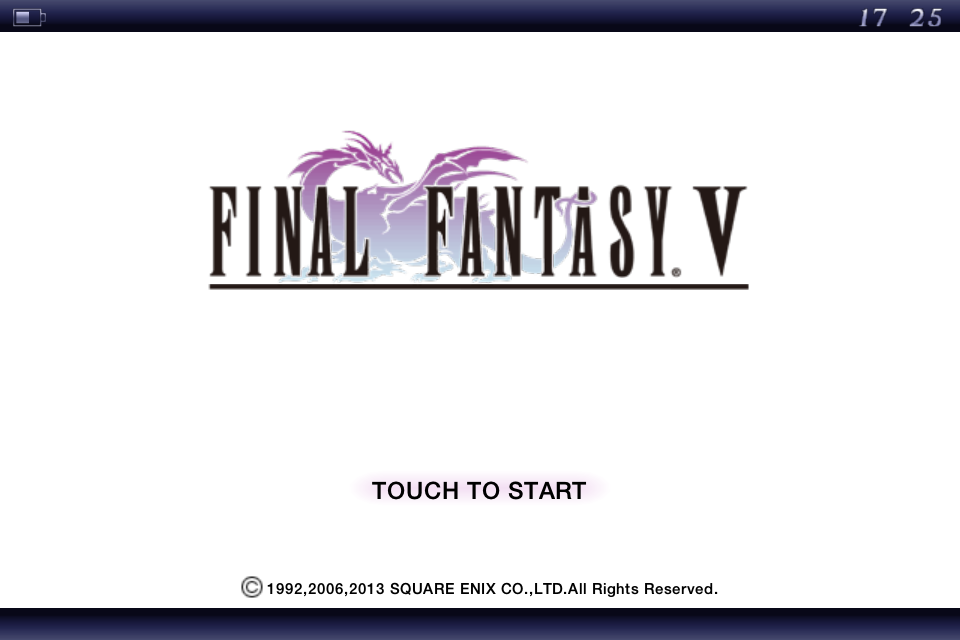
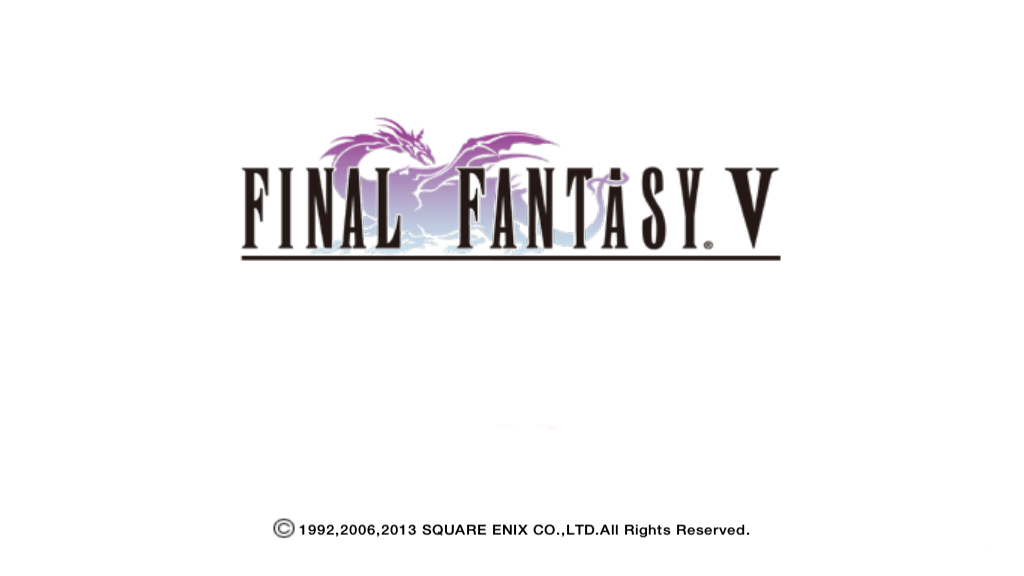
inicio do movimento de camera

diff --git a/core/src/com/nilo/necroslayer/screens/Level_1.java b/core/src/com/nilo/necroslayer/screens/Level_1.java
@@ -8,96 +8,145 @@ import com.badlogic.gdx.ScreenAdapter;
 import com.badlogic.gdx.Input.Keys;
 import com.badlogic.gdx.graphics.GL20;
 import com.badlogic.gdx.graphics.OrthographicCamera;
+import com.badlogic.gdx.graphics.Texture;
+import com.badlogic.gdx.graphics.g2d.Animation;
+import com.badlogic.gdx.graphics.g2d.BitmapFont;
 import com.badlogic.gdx.graphics.g2d.Sprite;
+import com.badlogic.gdx.graphics.g2d.SpriteBatch;
+import com.badlogic.gdx.graphics.g2d.TextureAtlas;
+import com.badlogic.gdx.maps.tiled.TiledMap;
+import com.badlogic.gdx.maps.tiled.TmxMapLoader;
+import com.badlogic.gdx.maps.tiled.renderers.OrthogonalTiledMapRenderer;
+import com.badlogic.gdx.utils.viewport.FitViewport;
+import com.badlogic.gdx.utils.viewport.Viewport;
 import com.nilo.necroslayer.Necroslayer;
 import com.nilo.necroslayer.model.MapaBlocos;
+import com.nilo.necroslayer.model.Player;
 
 public class Level_1 extends ScreenAdapter implements InputProcessor{
 	Necroslayer game;
 	MapaBlocos level_1;
+	PlayerCamera playcam;
+	Viewport viewport;
+	Player player;
+	Sprite spriteanda;
+	public Animation<Sprite> walkAnimation;
+	public OrthogonalTiledMapRenderer tMR;
+	public TiledMap tiledMap;
+	public Texture texture;
+	public Sprite sprite;
+	public TextureAtlas textureAtlas;
+	public SpriteBatch batch;
+	public BitmapFont font;
+	public final int GAME_WORLD_HEIGHT = 576;
+	public final int GAME_WORLD_WIDTH = 1024;
+	public String time, cXY, tXY, pXY;
 	public Level_1(Necroslayer game) {
 		this.game = game;
 	}
 	@Override
 	public void show() {
-		
+		font  = new BitmapFont();
+		batch = new SpriteBatch();
+		textureAtlas = new TextureAtlas(Gdx.files.internal("bartz.atlas"));
+		tiledMap = new TmxMapLoader().load("mapa_4.tmx");
+		tMR = new OrthogonalTiledMapRenderer(tiledMap, 4);
 		Gdx.input.setInputProcessor(this);
-		level_1 = new MapaBlocos(16,9);
-		level_1.gridBlocos[5][3].isWalkable = false;
-		level_1.gridBlocos[5][4].isWalkable = false;
-		level_1.gridBlocos[5][5].isWalkable = false;
-		level_1.gridBlocos[6][3].isWalkable = false;
-		level_1.gridBlocos[6][4].isWalkable = false;
-		level_1.gridBlocos[6][5].isWalkable = false;
-		level_1.gridBlocos[7][3].isWalkable = false;
-		level_1.gridBlocos[7][4].isWalkable = false;
-		level_1.gridBlocos[7][5].isWalkable = false;
+		
+		level_1 = new MapaBlocos(20,16);
+		level_1.gridBlocos[5][10].isWalkable = false;
+		level_1.gridBlocos[5][11].isWalkable = false;
+		level_1.gridBlocos[5][12].isWalkable = false;
+		level_1.gridBlocos[6][10].isWalkable = false;
+		level_1.gridBlocos[6][11].isWalkable = false;
+		level_1.gridBlocos[6][12].isWalkable = false;
+		level_1.gridBlocos[7][10].isWalkable = false;
+		level_1.gridBlocos[7][11].isWalkable = false;
+		level_1.gridBlocos[7][12].isWalkable = false;
+		player = new Player(0, 0);
+		playcam = new PlayerCamera(player, level_1);
+		walkAnimation = player.currentAnimation;
+		playcam.update();
+		viewport = new FitViewport(GAME_WORLD_WIDTH, GAME_WORLD_HEIGHT, playcam);
+		viewport.apply();
 	}
-
+	
+	@Override
+	public void resize (int width, int height) {
+		viewport.update(width, height);
+		playcam.position.set(GAME_WORLD_WIDTH/2, GAME_WORLD_HEIGHT/2, 0);
+	}
 	@Override
 	public void render(float delta) {
 		Gdx.gl.glClearColor(0, 0, 0, 1);
         Gdx.gl.glClear(GL20.GL_COLOR_BUFFER_BIT);
 		Gdx.gl.glClear( GL20.GL_COLOR_BUFFER_BIT | GL20.GL_DEPTH_BUFFER_BIT);
-		this.game.tMR.setView((OrthographicCamera)this.game.viewport.getCamera());
-		this.game.tMR.render();
-		this.game.batch.begin();
-		if(this.game.player.isWalking) {
+		tMR.setView((OrthographicCamera)viewport.getCamera());
+		tMR.render();
+		
+		batch.begin();
+		if(player.isWalking) {
 			this.game.elapsedTime += 0.08;
 		}
-		this.game.player.walk(level_1);
+		player.walk(level_1);
 		if(this.game.elapsedTime > 1) {
 			this.game.elapsedTime = 0;
 		}
-		this.game.camera.update();
-		this.game.batch.setProjectionMatrix(this.game.camera.combined);
-		this.game.spriteanda = (Sprite)this.game.player.currentAnimation.getKeyFrame(this.game.elapsedTime);
-		this.game.batch.draw(this.game.spriteanda, this.game.player.posX, this.game.player.posY, 0, 0, 16, 16,
+		playcam.update();
+		playcam.follow(player, level_1);
+		spriteanda = (Sprite)player.currentAnimation.getKeyFrame(this.game.elapsedTime);
+		batch.draw(spriteanda, player.posX, player.posY, 0, 0, 16, 16,
 		    		4, 4, 0);
-		this.game.time = String.format("%f",this.game.elapsedTime);
-		this.game.cXY = String.format("%f , %f",this.game.player.getTileX(), this.game.player.getTileY());
-		this.game.tXY = String.format("%d , %d",this.game.player.targetX, this.game.player.targetY);
-		this.game.pXY = String.format("%f , %f",this.game.player.posX, this.game.player.posY);
-		this.game.font.draw(this.game.batch, this.game.time, 0, 500);
-		this.game.font.draw(this.game.batch, this.game.cXY, 0, 485);
-		this.game.font.draw(this.game.batch, this.game.tXY, 0, 470);
-		this.game.font.draw(this.game.batch, this.game.pXY, 0, 455);
-		this.game.batch.end();
+		time = String.format("%f",this.game.elapsedTime);
+		cXY = String.format("%f , %f",player.getTileX(),player.getTileY());
+		tXY = String.format("%d , %d",player.targetX, player.targetY);
+		pXY = String.format("%f , %f",player.posX, player.posY);
+		font.draw(batch, time, 0, 500);
+		font.draw(batch, cXY, 0, 485);
+		font.draw(batch, tXY, 0, 470);
+		font.draw(batch, pXY, 0, 455);
+		batch.setProjectionMatrix(playcam.combined);
+		batch.end();
 	        
 			
 		}
+	public void dispose () {
+		batch.dispose();
+		textureAtlas.dispose();
+		
+	}
 	@Override
 	public boolean keyDown(int keycode) {
 		if(keycode == Keys.F1) {
-			System.out.println(this.game.player.isMovingRight);
+			System.out.println(player.isMovingRight);
 		}
 		if(keycode == Keys.LEFT) {
-			this.game.player.isMovingLeft = true;
+			player.isMovingLeft = true;
 		}
 		if(keycode == Keys.RIGHT) {
-			this.game.player.isMovingRight = true;
+			player.isMovingRight = true;
 		}
 		if(keycode == Keys.DOWN) {
-			this.game.player.isMovingDown = true;
+			player.isMovingDown = true;
 		}
 		if(keycode == Keys.UP) {
-			this.game.player.isMovingUp = true;
+			player.isMovingUp = true;
 		}
 		return true;
 	}
 	@Override
 	public boolean keyUp(int keycode) {
 		if(keycode == Keys.LEFT) {
-			this.game.player.isMovingLeft = false;
+			player.isMovingLeft = false;
 	}
 		if(keycode == Keys.RIGHT) {
-			this.game.player.isMovingRight = false;
+			player.isMovingRight = false;
 	}
 		if(keycode == Keys.UP) {
-			this.game.player.isMovingUp = false;
+			player.isMovingUp = false;
 	}
 		if(keycode == Keys.DOWN) {
-			this.game.player.isMovingDown = false;
+			player.isMovingDown = false;
 	}
 		return true;
 	}

diff --git a/core/src/com/nilo/necroslayer/screens/TitleScreen.java b/core/src/com/nilo/necroslayer/screens/TitleScreen.java
@@ -8,6 +8,8 @@ import com.badlogic.gdx.ScreenAdapter;
 import com.badlogic.gdx.graphics.GL20;
 import com.badlogic.gdx.graphics.Texture;
 import com.badlogic.gdx.graphics.g2d.Sprite;
+import com.badlogic.gdx.utils.viewport.FitViewport;
+import com.badlogic.gdx.utils.viewport.Viewport;
 import com.nilo.necroslayer.Necroslayer;
 
 public class TitleScreen extends ScreenAdapter {
@@ -15,14 +17,17 @@ public class TitleScreen extends ScreenAdapter {
     Necroslayer game;
     Sprite background;
     Texture texture;
+    Viewport titleView;
     public TitleScreen(Necroslayer game) {
         this.game = game;
     }
 
     @Override
     public void show(){
+    	titleView = new FitViewport(this.game.GAME_WORLD_WIDTH, this.game.GAME_WORLD_HEIGHT, this.game.camera);
+		titleView.apply();
     	texture = new Texture(Gdx.files.internal("titulo.png"));
-    	background = new Sprite(texture,960,640);
+    	background = new Sprite(texture,1024,576);
         Gdx.input.setInputProcessor(new InputAdapter() {
             @Override
             public boolean keyDown(int keyCode) {
@@ -38,7 +43,9 @@ public class TitleScreen extends ScreenAdapter {
     public void render(float delta) {
         Gdx.gl.glClearColor(0, 0, 0, 1);
         Gdx.gl.glClear(GL20.GL_COLOR_BUFFER_BIT);
+        this.game.camera.update();
         game.batch.begin();
+        this.game.batch.setProjectionMatrix(this.game.camera.combined);
         background.draw(game.batch);
         //game.font.draw(game.batch, "Rise of the NecroSlayers!", Gdx.graphics.getWidth() * .25f, Gdx.graphics.getHeight() * .75f);
         //game.font.draw(game.batch, "Press space to play.", Gdx.graphics.getWidth() * .25f, Gdx.graphics.getHeight() * .25f);

diff --git a/core/src/com/nilo/necroslayer/screens/PlayerCamera.java b/core/src/com/nilo/necroslayer/screens/PlayerCamera.java
@@ -1,0 +1,54 @@
+package com.nilo.necroslayer.screens;
+import com.badlogic.gdx.graphics.OrthographicCamera;
+import com.badlogic.gdx.math.Vector3;
+import com.nilo.necroslayer.model.MapaBlocos;
+import com.nilo.necroslayer.model.Player;
+
+public class PlayerCamera extends OrthographicCamera{
+	public float x,y;
+	
+	PlayerCamera(Player player, MapaBlocos mapa){
+		this.near = 0;
+		if(player.targetX < 7) {
+			this.x = 448;
+			
+		}
+		else if (player.targetX > mapa.width - 7) {
+			this.x = (mapa.width - 7)*64;
+		}
+		else if(player.targetY < 4) {
+			this.x = 256;
+			
+		}
+		else if (player.targetY > mapa.width - 4) {
+			this.x = (mapa.width - 4)*4;
+		}
+		
+		//this.translate(this.x, this.y);
+		this.update();
+	}
+
+	
+	public void follow(Player player, MapaBlocos mapa) {
+		if(player.isWalking) {
+			if (player.isMovingLeft) {
+				if (this.position.x > 512) {
+					this.translate(-2f, 0);
+				}
+			}else if (player.isMovingRight) {
+				if (this.position.x < (mapa.width-8)*64) {
+					this.translate(2f, 0);
+					}
+			}else if (player.isMovingDown) {
+				if (this.position.y > 288) {
+					this.translate(0, -2f);
+				}
+			}else if (player.isMovingUp) {
+				if (this.position.y < (mapa.height-4.5)*64) {
+					this.translate(0, 2f);
+					}
+			}
+		}
+	}
+
+}

diff --git a/core/src/com/nilo/necroslayer/Necroslayer.java b/core/src/com/nilo/necroslayer/Necroslayer.java
@@ -27,25 +27,23 @@ public class Necroslayer extends Game implements ApplicationListener{
 	public Animation<Sprite> walkAnimation;
 	public float elapsedTime = 0;
 	float unitScale = 1 / 16f;
-	final int GAME_WORLD_HEIGHT = 576;
-	final int GAME_WORLD_WIDTH = 1024;
+	public final int GAME_WORLD_HEIGHT = 576;
+	public final int GAME_WORLD_WIDTH = 1024;
 	public FitViewport viewport;
 	public Player player;
-	public Sprite spriteanda;
-	public BitmapFont font;
+	
+	
     public OrthographicCamera camera;
 	// Debug Info
-    public String time, cXY, tXY, pXY;
-	int initX = 0, initY = 0;
+    
+	int initX = 8, initY = 4;
 	@Override
 	public void create () {
-		font  = new BitmapFont();
+		
 		batch = new SpriteBatch();
 		textureAtlas = new TextureAtlas(Gdx.files.internal("bartz.atlas"));
-		tiledMap = new TmxMapLoader().load("mapa_3.tmx");
+		tiledMap = new TmxMapLoader().load("mapa_4.tmx");
 		tMR = new OrthogonalTiledMapRenderer(tiledMap, 4);
-		player = new Player(initX, initY);
-		walkAnimation = player.currentAnimation;
 		camera = new OrthographicCamera();
 		camera.update();
 		viewport = new FitViewport(GAME_WORLD_WIDTH, GAME_WORLD_HEIGHT, camera);

diff --git a/core/src/com/nilo/necroslayer/model/Bloco.java b/core/src/com/nilo/necroslayer/model/Bloco.java
@@ -4,11 +4,12 @@ public class Bloco {
 	private int x,y;
 	private float pixelX,pixelY;
 	private BlocoItem item = new BlocoItem();
-	public boolean isWalkable = true;
+	public boolean isWalkable;
 	private boolean haveAPlayer = false;
-	public Bloco (int x, int y){
+	public Bloco (int x, int y, boolean walk){
 		this.x = x;
 		this.y = y;
+		this.isWalkable = true;
 
 	}
 	public int getx() {

diff --git a/core/src/com/nilo/necroslayer/model/MapaBlocos.java b/core/src/com/nilo/necroslayer/model/MapaBlocos.java
@@ -13,7 +13,7 @@ public class MapaBlocos {
 		this.gridBlocos = new Bloco[w][h];
 		for(int i = 0; i < w; i++) {
 			for(int j = 0; j < h; j++) {
-				gridBlocos[i][j] = new Bloco(i,j);
+				gridBlocos[i][j] = new Bloco(i,j,true);
 			}
 		}
 	}
